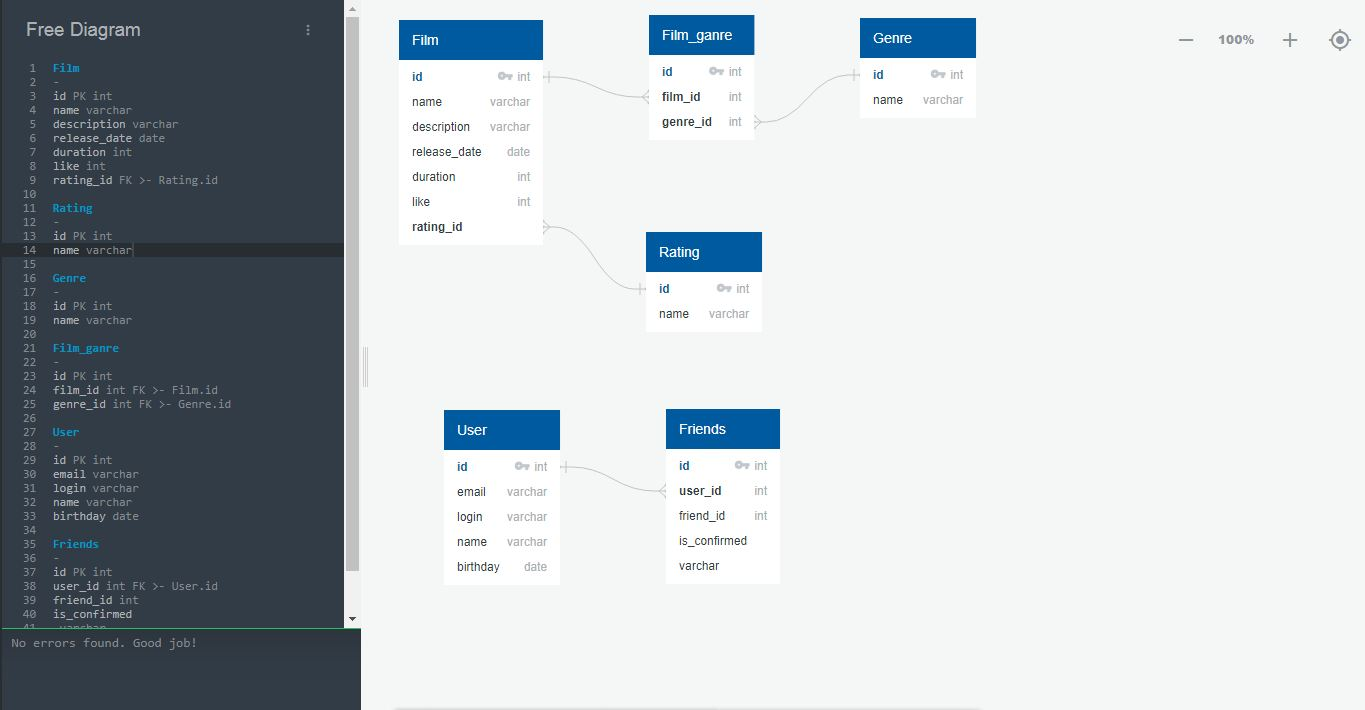
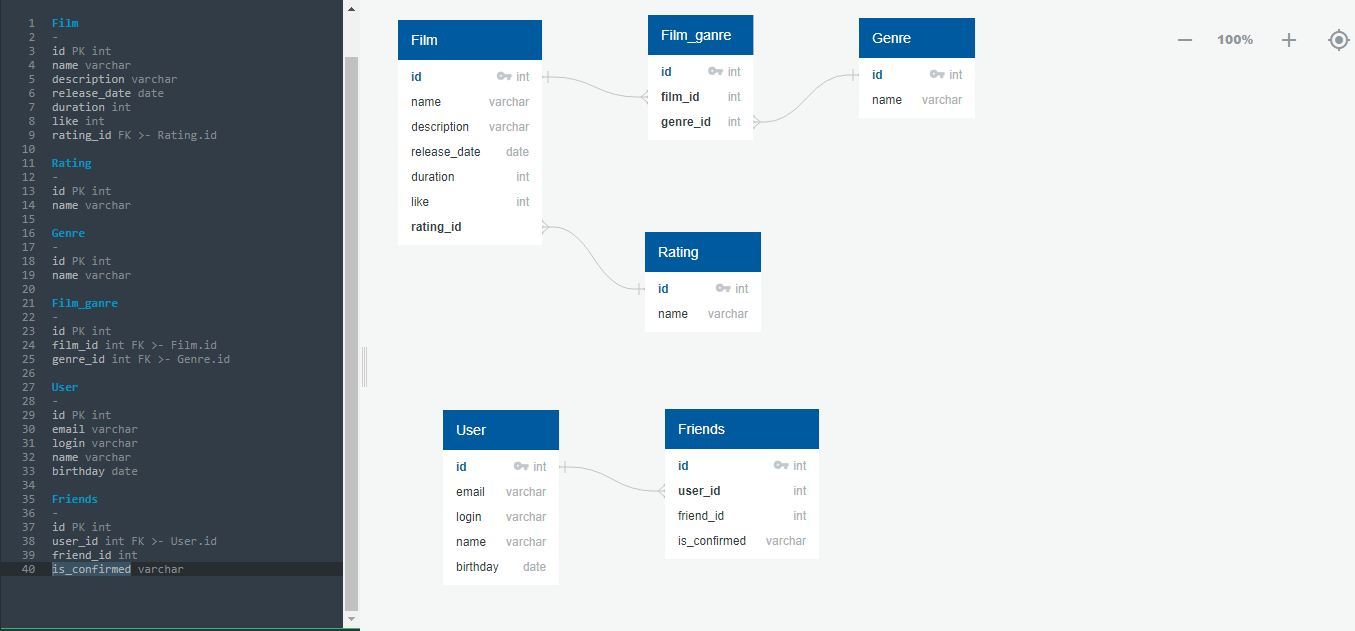
Добавлена схема БД.

diff --git a/README.md b/README.md
@@ -2,3 +2,5 @@
 Template repository for Filmorate project.
 # База данных.
 ![schema](schema.JPG)
+# Чтобы узнать жанр фильна надо использовать надо использовать INNER JOIN.
+# is_confirmed - это подтвержден запрос на дружбу или нет.
